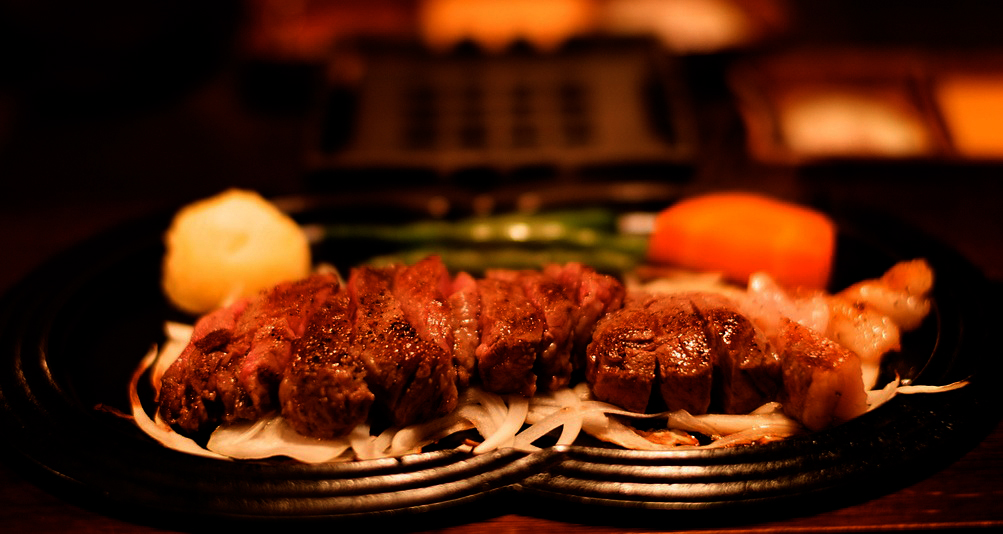
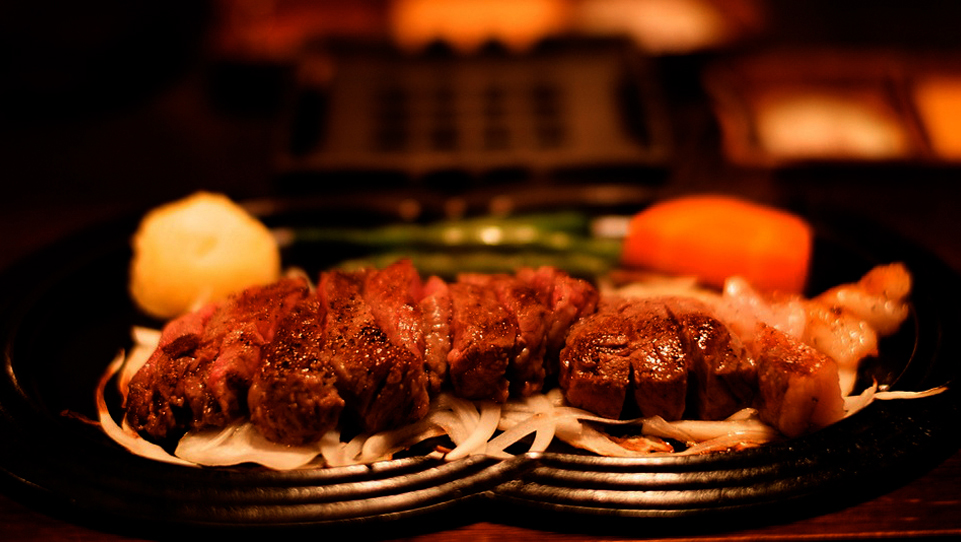
index/history/css/img
Index= switched around class and href
history= added class
css= revised buttons
img= resized img

diff --git a/history.html b/history.html
@@ -100,7 +100,7 @@
       <div class="container">
         <div class="row">
           <img src="images/placeholder-med4.jpg" alt="..."/>
-          <p>With its classic Japanese country atmosphere, Kobe Japanese Steak House offers the finest Japanese cuisine in a unique and memorable setting. Loyal customers have frequented Kobe year after year, making it a "must-visit" destination in the Honolulu area for locals, tourists and celebrities alike. All tables are communal and surround a teppan grill, guaranteeing that every guest in your party can witness the skillful techniques of our master chefs slicing and dicing steak, chicken, and seafood delicacies. Excellent sushi is also available at the sushi bar or as an appetizer with your teppan meal. On behalf of our Kobe Family, Thank You for allowing us to serve you for over 39 years.
+          <p class="intro">With its classic Japanese country atmosphere, Kobe Japanese Steak House offers the finest Japanese cuisine in a unique and memorable setting. Loyal customers have frequented Kobe year after year, making it a "must-visit" destination in the Honolulu area for locals, tourists and celebrities alike. All tables are communal and surround a teppan grill, guaranteeing that every guest in your party can witness the skillful techniques of our master chefs slicing and dicing steak, chicken, and seafood delicacies. Excellent sushi is also available at the sushi bar or as an appetizer with your teppan meal. On behalf of our Kobe Family, Thank You for allowing us to serve you for over 39 years.
         </p></div>
       </div>
     </div>

diff --git a/css/style.css b/css/style.css
@@ -92,6 +92,8 @@ a {
 a:visited, a:hover, a:focus {
 	color: #fff;
 	text-decoration: none;
+	border: 2px solid #b82222;
+	font-weight: bold;
 }
 
 
@@ -216,11 +218,13 @@ h2 {
 
 .main-nav a:hover {
 	color: #b82222;
+	border: none;
 }
 
 .main-nav a.active {
 	color: #b82222;
 	border-bottom: 2px solid #fff;
+	font-weight: bold;
 }
 
 /* SECTION 01 */

diff --git a/index.html b/index.html
@@ -76,7 +76,7 @@
       <div class="call-to-action">
         <div class="container">
           <h2>Authentic Japanese Dining</h2>
-          <a href="#" class="menu-button">
+          <a class="menu-button" href="menu.html" >
             <span class="big-text">VIEW OUR MENU</span>
           </a>
         </div>
